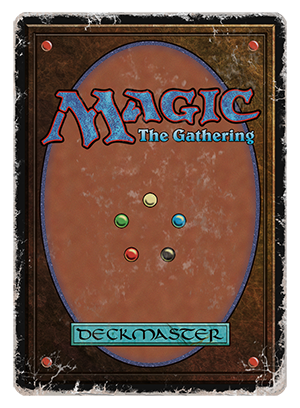
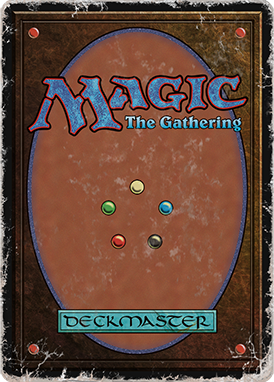
Add option to use lightly played card backside

diff --git a/js/goldfish.js b/js/goldfish.js
@@ -10,6 +10,8 @@ var sideboard = [];
 var markedList = [];
 var isDragging = false;
 
+var settings = {};
+
 $(function() {
     init();
 });
@@ -96,7 +98,9 @@ async function init() {
 }
 
 function retrieveSettings() {
-    var backgroundUrl = localStorage.getItem("background");
+    settings = JSON.parse(localStorage.getItem("mtgGoldfish-settings"));
+
+    var backgroundUrl = settings.background;
 
     if (backgroundUrl === null ||
         backgroundUrl === "")
@@ -105,7 +109,9 @@ function retrieveSettings() {
     } else {
         $("body").css("background-image", `url('${backgroundUrl}')`);
         $("#background-url").val(backgroundUrl);
-    } 
+    }
+
+    $("#checkbox-card-backside-lightly-played").prop("checked", settings.useLightlyPlayedCardBackside);
 }
 
 function bindZoneModal(selector, id) {
@@ -429,7 +435,10 @@ function restart() {
 }
 
 function saveSettings() {
-    localStorage.setItem("background", $("#background-url").val());
+    localStorage.setItem("mtgGoldfish-settings", JSON.stringify({
+        background: $("#background-url").val(),
+        useLightlyPlayedCardBackside: $("#checkbox-card-backside-lightly-played").is(":checked"),
+    }))
 
     retrieveSettings();
 

diff --git a/js/deck.js b/js/deck.js
@@ -143,7 +143,7 @@ async function parseCardList(input) {
             layout: card.layout,
             imageUrl: isDoubleFaced(card.layout) ? card.card_faces[0].image_uris.small : card.image_uris.small,
             imageFrontPreviewUrl: isDoubleFaced(card.layout) ? card.card_faces[0].image_uris.png : card.image_uris.png,
-            imageUrlBack: isDoubleFaced(card.layout) ? card.card_faces[1].image_uris.small : "img/card-backside-mint.jpg",
+            imageUrlBack: isDoubleFaced(card.layout) ? card.card_faces[1].image_uris.small : settings.useLightlyPlayedCardBackside ? "img/card-backside-lightly-played.png" : "img/card-backside-mint.jpg",
             imageBackPreviewUrl: isDoubleFaced(card.layout) ? card.card_faces[1].image_uris.png : "img/card-backside-mint.jpg",
             goldfishId: createGoldfishId(),
         }));

diff --git a/modals/settingsmodal.html b/modals/settingsmodal.html
@@ -13,6 +13,12 @@
                     <label class="control-label">Background:</label>
                     <input type="text" class="form-control" id="background-url" />
                 </div>
+                <div class="form-check">
+                    <input class="form-check-input" type="checkbox" id="checkbox-card-backside-lightly-played">
+                    <label class="form-check-label" for="checkbox-card-backside-lightly-played">
+                        Use "lighlty played" card backside
+                    </label>
+                </div>
             </div>
             <div class="modal-footer">
                 <button type="button" class="btn btn-secondary" data-dismiss="modal">Close</button>
